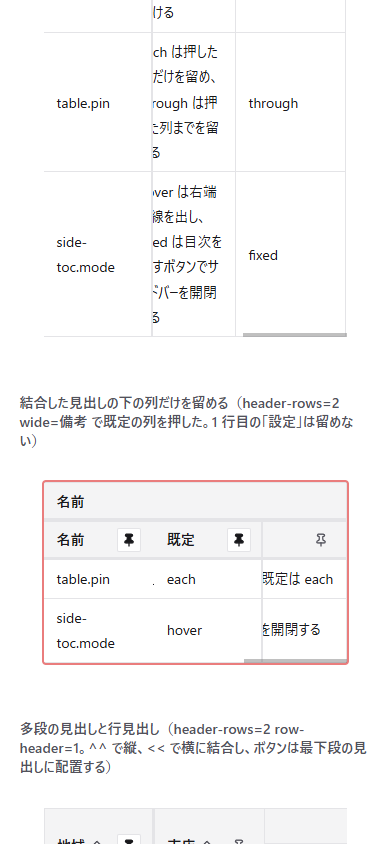
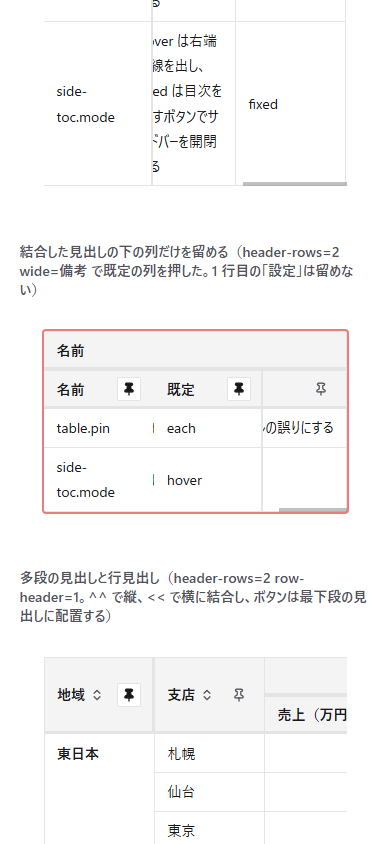
docs: 表のモックの pin= の読めない列名の警告を既存の警告の文面にそろえ、結合した見出しの表を PC 幅でも設定のセルが見えなくなる幅にする

diff --git a/dev/mock/refs/438/assets/table-samples.js b/dev/mock/refs/438/assets/table-samples.js
@@ -31,7 +31,7 @@ window.mdmarkMockTables438 = {};
     mode: "each",
     pin: ["物理名", "無い列"],
     scroll: "end",
-    warning: "<code>pin=</code> の列名 <code>無い列</code> が見出しにありません。見出しの列名を記載してください。",
+    warning: "<code>&lt;!-- table: pin=物理名,無い列 --&gt;</code> の列名 <code>無い列</code> は、この表にありません。列名は No・物理名・論理名・型・必須・既定・説明・例です。この列名を無視して描いています。",
   };
 
   T.merged = {
@@ -41,8 +41,8 @@ window.mdmarkMockTables438 = {};
       ["名前", "型", "既定", "必須", "備考"],
     ],
     body: [
-      ["table.pin", "string", "each", "false", "each は押した列だけを留め、through は押した列までを留める。既定は each"],
-      ["side-toc.mode", "string", "hover", "false", "hover は右端の線を出し、fixed は目次を出すボタンでサイドバーを開閉する"],
+      ["table.pin", "string", "each", "false", "each は押した列だけを留め、through は押した列までを留める。既定は each で、mount は他の値を無視して each にし、CLI は他の値を設定ファイルの誤りにする"],
+      ["side-toc.mode", "string", "hover", "false", "hover は右端の線を出し、fixed は目次を出すボタンでサイドバーを開閉する。描く先の要素の幅が 48rem 未満のときはどちらも狭い幅の帯で出す"],
     ],
     mode: "each",
     wide: "備考",
